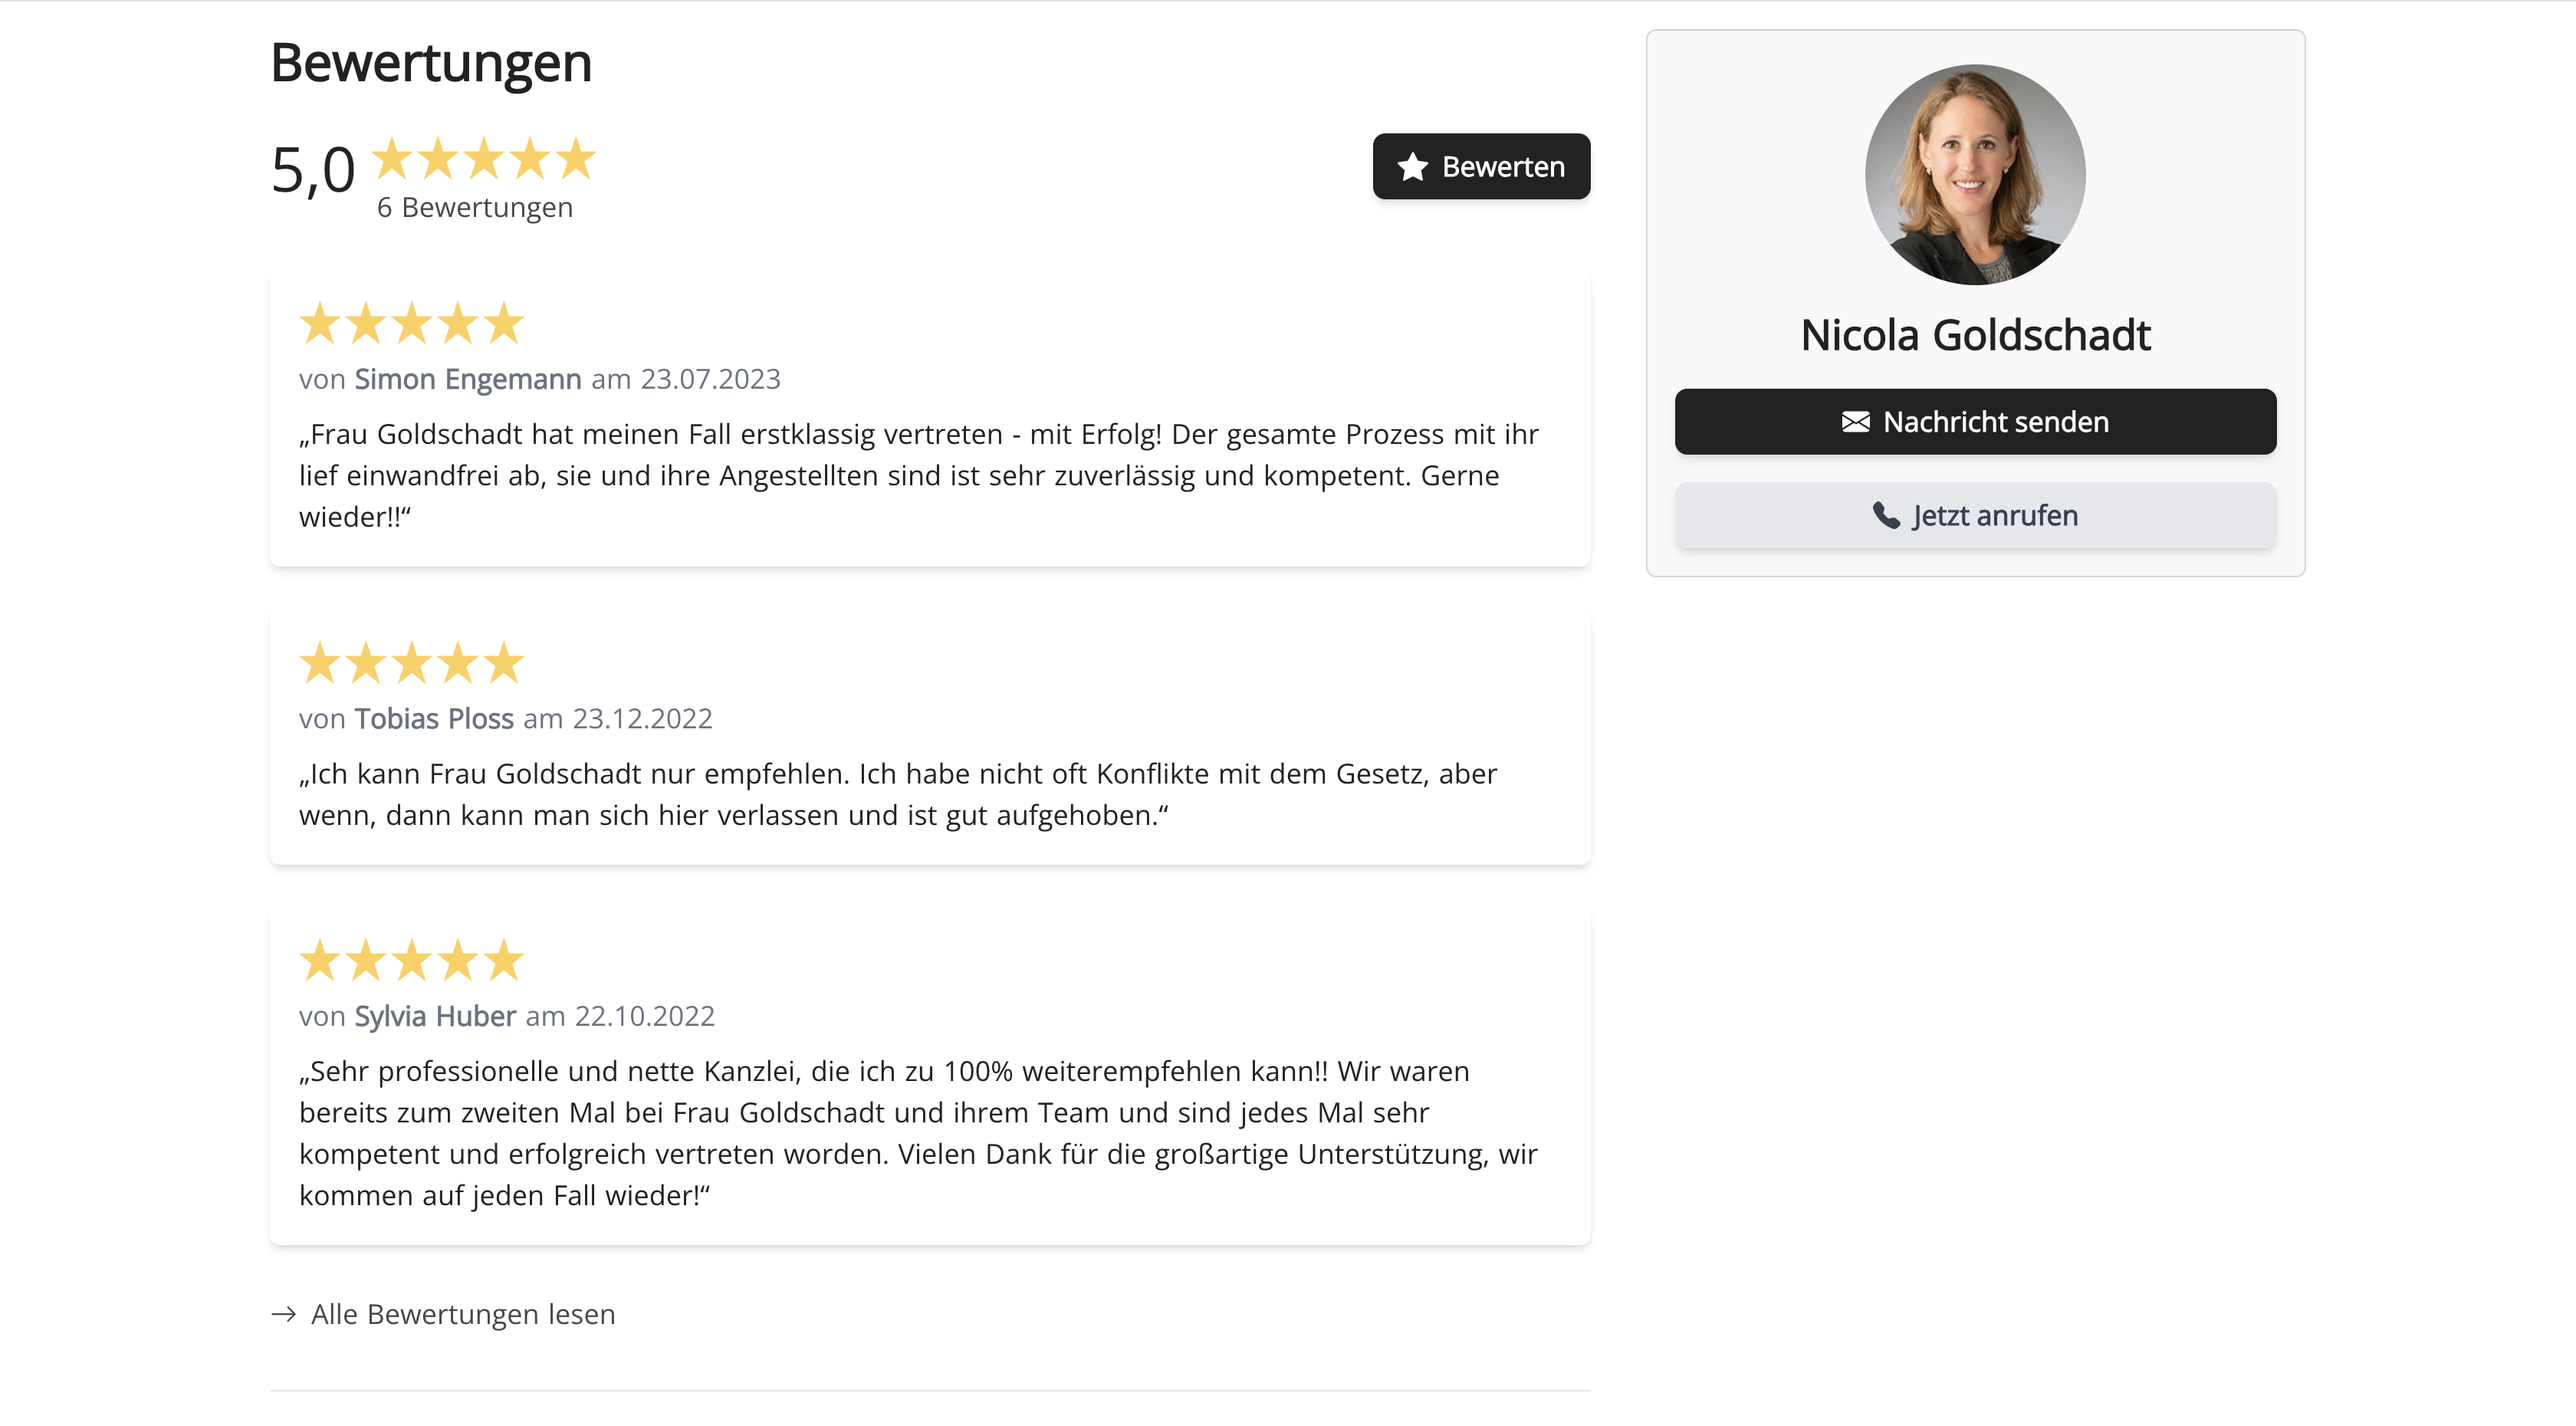
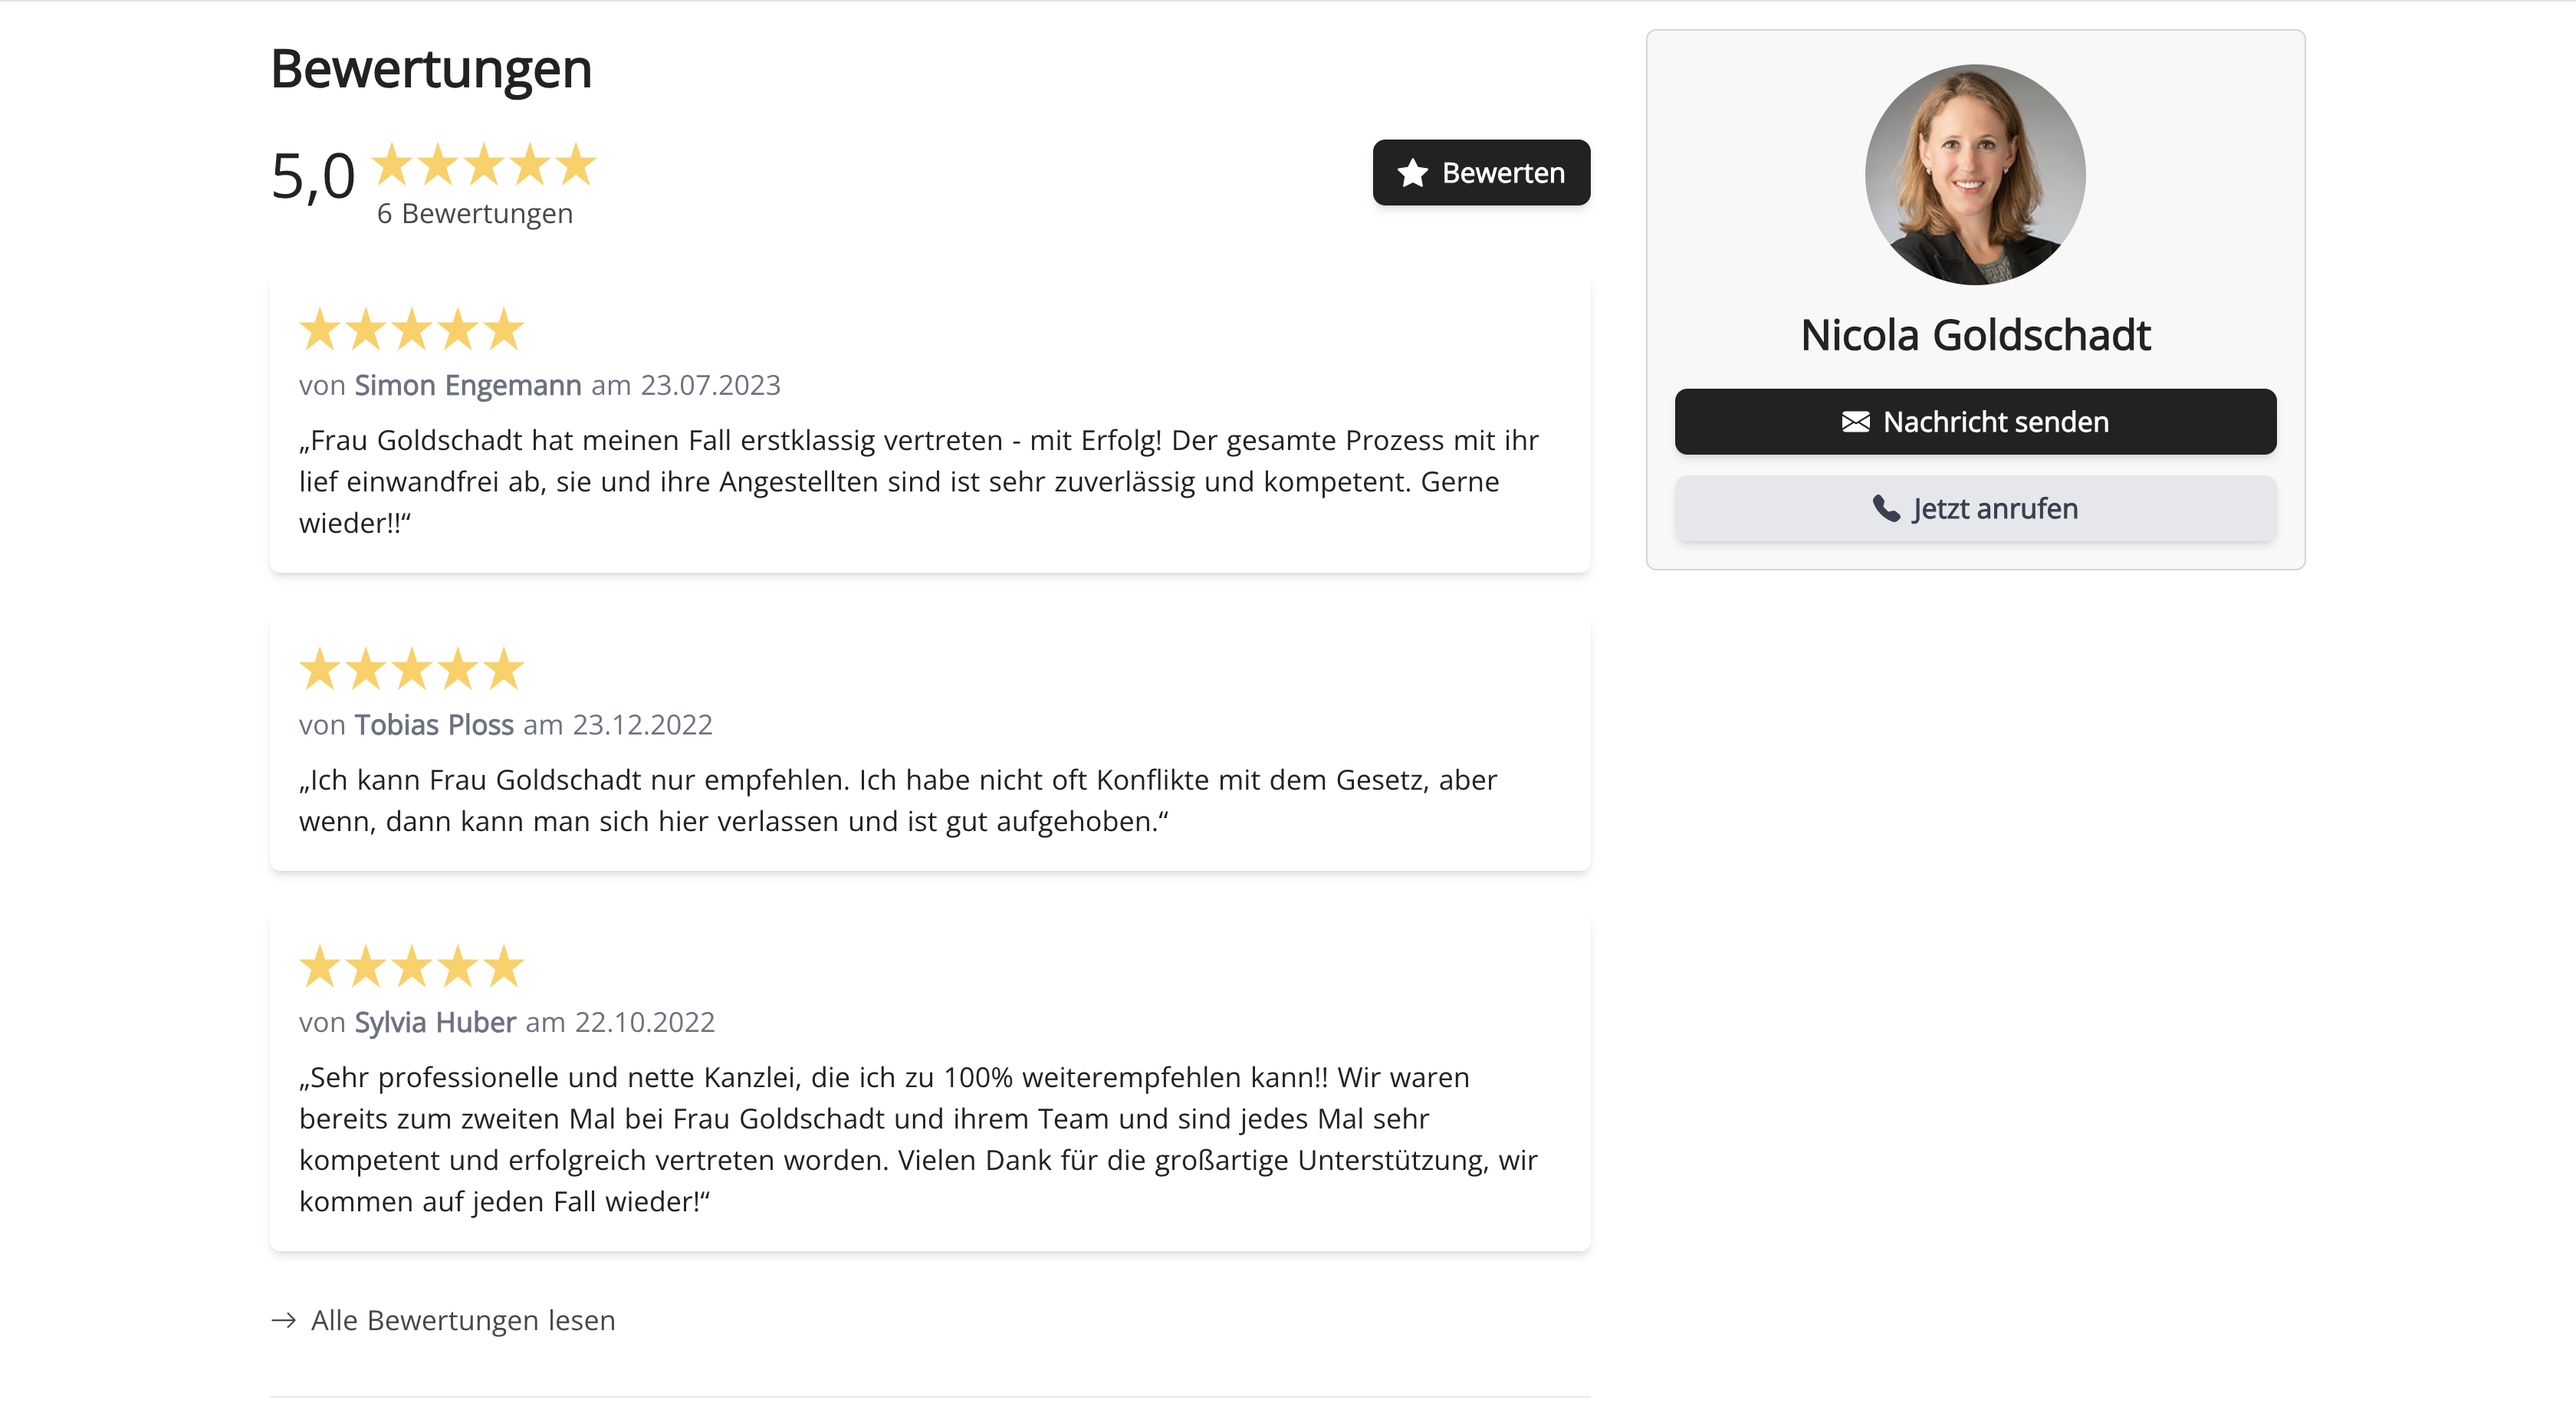
Update

diff --git a/pages/_slug/profil-melden.vue b/pages/_slug/profil-melden.vue
@@ -1,10 +1,10 @@
 <template>
   <div>
-    <h1 class="mb-4">Profil von {{ fullName }} entfernen</h1>
-    <p class="md:text-lg mb-4">Die Daten einiger Rechtsanwälte stammen aus öffentlich und allgemein zugänglichen Verzeichnissen. Bei diesen Daten war uns nicht ersichtlich, dass kein Interesse an der Veröffentlichung der Rechtsanwaltsdaten besteht.</p>
+    <h1 class="mb-4">Profil von {{ fullName }} melden</h1>
+    <p class="md:text-lg mb-4">Viele Anwaltsprofile wurden von uns selbst erstellt. Die Daten dieser Profile stammen aus öffentlich und allgemein zugänglichen Verzeichnissen. Leider war uns nicht ersichtlich, dass kein Interesse an der Veröffentlichung der Rechtsanwaltsdaten besteht.</p>
     <p class="md:text-lg mb-4">Es ist erfahrungsgemäß davon auszugehen, dass Rechtsanwälte ein großes Interesse daran haben, Ihre Kanzleidaten einer breiten Öffentlichkeit bekannt zu machen, um so ihren Bekanntheitsgrad zu steigern und potentielle Mandanten auf sich aufmerksam zu machen (vgl. § 27 Abs. 1 BRAO). Die listengemäße Verarbeitung, Nutzung und Speicherung der angezeigten Daten ist gemäß § 28 BDSG a.F. ebenso zulässig, wie gemäß §§ 28, 29 BDSG a.F. die Veröffentlichung der Daten ohne die Verpflichtung einer vorherigen Benachrichtigung.</p>
     <p class="md:text-lg mb-4">Wir bitten Sie <b>von einer Abmahnung abzusehen</b> und stattdessen mit uns in Kontakt zu treten.</p>
-    <p class="md:text-lg mb-4">Sie können Ihre Daten völlig <b>kostenlos entfernen</b> lassen. Schreiben Sie uns hierfür einfach via E-Mail oder WhatsApp.</p>
+    <p class="md:text-lg mb-4">Sie können Ihre Daten völlig <b>kostenlos aktualisieren oder entfernen</b> lassen. Schreiben Sie uns hierfür einfach via E-Mail oder WhatsApp.</p>
     <p class="md:text-lg mb-6 md:mb-8"></p>
     <div class="flex flex-col space-y-3 sm:flex-row sm:items-center sm:space-x-6 sm:space-y-0">
       <div>
@@ -34,10 +34,10 @@
 
 <script>
 export default {
-  name: 'ProfileEntfernenPage',
+  name: 'ProfileMeldenPage',
   head() {
     return {
-      title: `Profil von ${this.fullName} entfernen - Traumanwalt`,
+      title: `Profil von ${this.fullName} melden - Traumanwalt`,
       link: [
         { rel: 'canonical', href: `https://traumanwalt.com${this.$route.path}` }
       ]

diff --git a/pages/_slug/index.vue b/pages/_slug/index.vue
@@ -50,11 +50,11 @@
           </svg>
         </a>
       </div>
-      <nuxt-link v-if="profile.fake" :to="`/${profile.slug}/profil-entfernen`" class="remove-profile-link flex items-center space-x-2 text-sm text-white z-10">
+      <nuxt-link v-if="profile.fake" :to="`/${profile.slug}/profil-melden`" class="report-profile-link flex items-center space-x-2 text-sm text-white z-10">
         <svg xmlns="http://www.w3.org/2000/svg" width="16" height="16" fill="currentColor" class="bi bi-flag-fill" viewBox="0 0 16 16">
           <path d="M14.778.085A.5.5 0 0 1 15 .5V8a.5.5 0 0 1-.314.464L14.5 8l.186.464-.003.001-.006.003-.023.009a12 12 0 0 1-.397.15c-.264.095-.631.223-1.047.35-.816.252-1.879.523-2.71.523-.847 0-1.548-.28-2.158-.525l-.028-.01C7.68 8.71 7.14 8.5 6.5 8.5c-.7 0-1.638.23-2.437.477A20 20 0 0 0 3 9.342V15.5a.5.5 0 0 1-1 0V.5a.5.5 0 0 1 1 0v.282c.226-.079.496-.17.79-.26C4.606.272 5.67 0 6.5 0c.84 0 1.524.277 2.121.519l.043.018C9.286.788 9.828 1 10.5 1c.7 0 1.638-.23 2.437-.477a20 20 0 0 0 1.349-.476l.019-.007.004-.002h.001"/>
         </svg>
-        <span>Profil entfernen</span>
+        <span>Profil melden</span>
       </nuxt-link>
     </div>
     <div class="flex flex-col space-y-8 lg:flex-row lg:space-x-8 lg:space-y-0">
@@ -235,7 +235,7 @@
             <div class="profile-photo bg-cover h-32 w-32 rounded-full" :style="`background-image: url(${photoUrl});`"></div>
           </div>
           <h2 class="text-center text-xl xl:text-2xl mb-4">{{ firstName }} {{ lastName }}</h2>
-          <form class="flex flex-col space-y-4" @submit.prevent>
+          <form class="flex flex-col space-y-3" @submit.prevent>
             <Btn @click="processMessage">
               <svg xmlns="http://www.w3.org/2000/svg" width="18" height="18" fill="currentColor" class="bi bi-envelope-fill" viewBox="0 0 16 16">
                 <path d="M.05 3.555A2 2 0 0 1 2 2h12a2 2 0 0 1 1.95 1.555L8 8.414zM0 4.697v7.104l5.803-3.558zM6.761 8.83l-6.57 4.027A2 2 0 0 0 2 14h12a2 2 0 0 0 1.808-1.144l-6.57-4.027L8 9.586zm3.436-.586L16 11.801V4.697z"/>
@@ -480,7 +480,7 @@ export default {
   }
 }
 
-.remove-profile-link {
+.report-profile-link {
   &:hover {
     color: #ffffff !important;
   }
